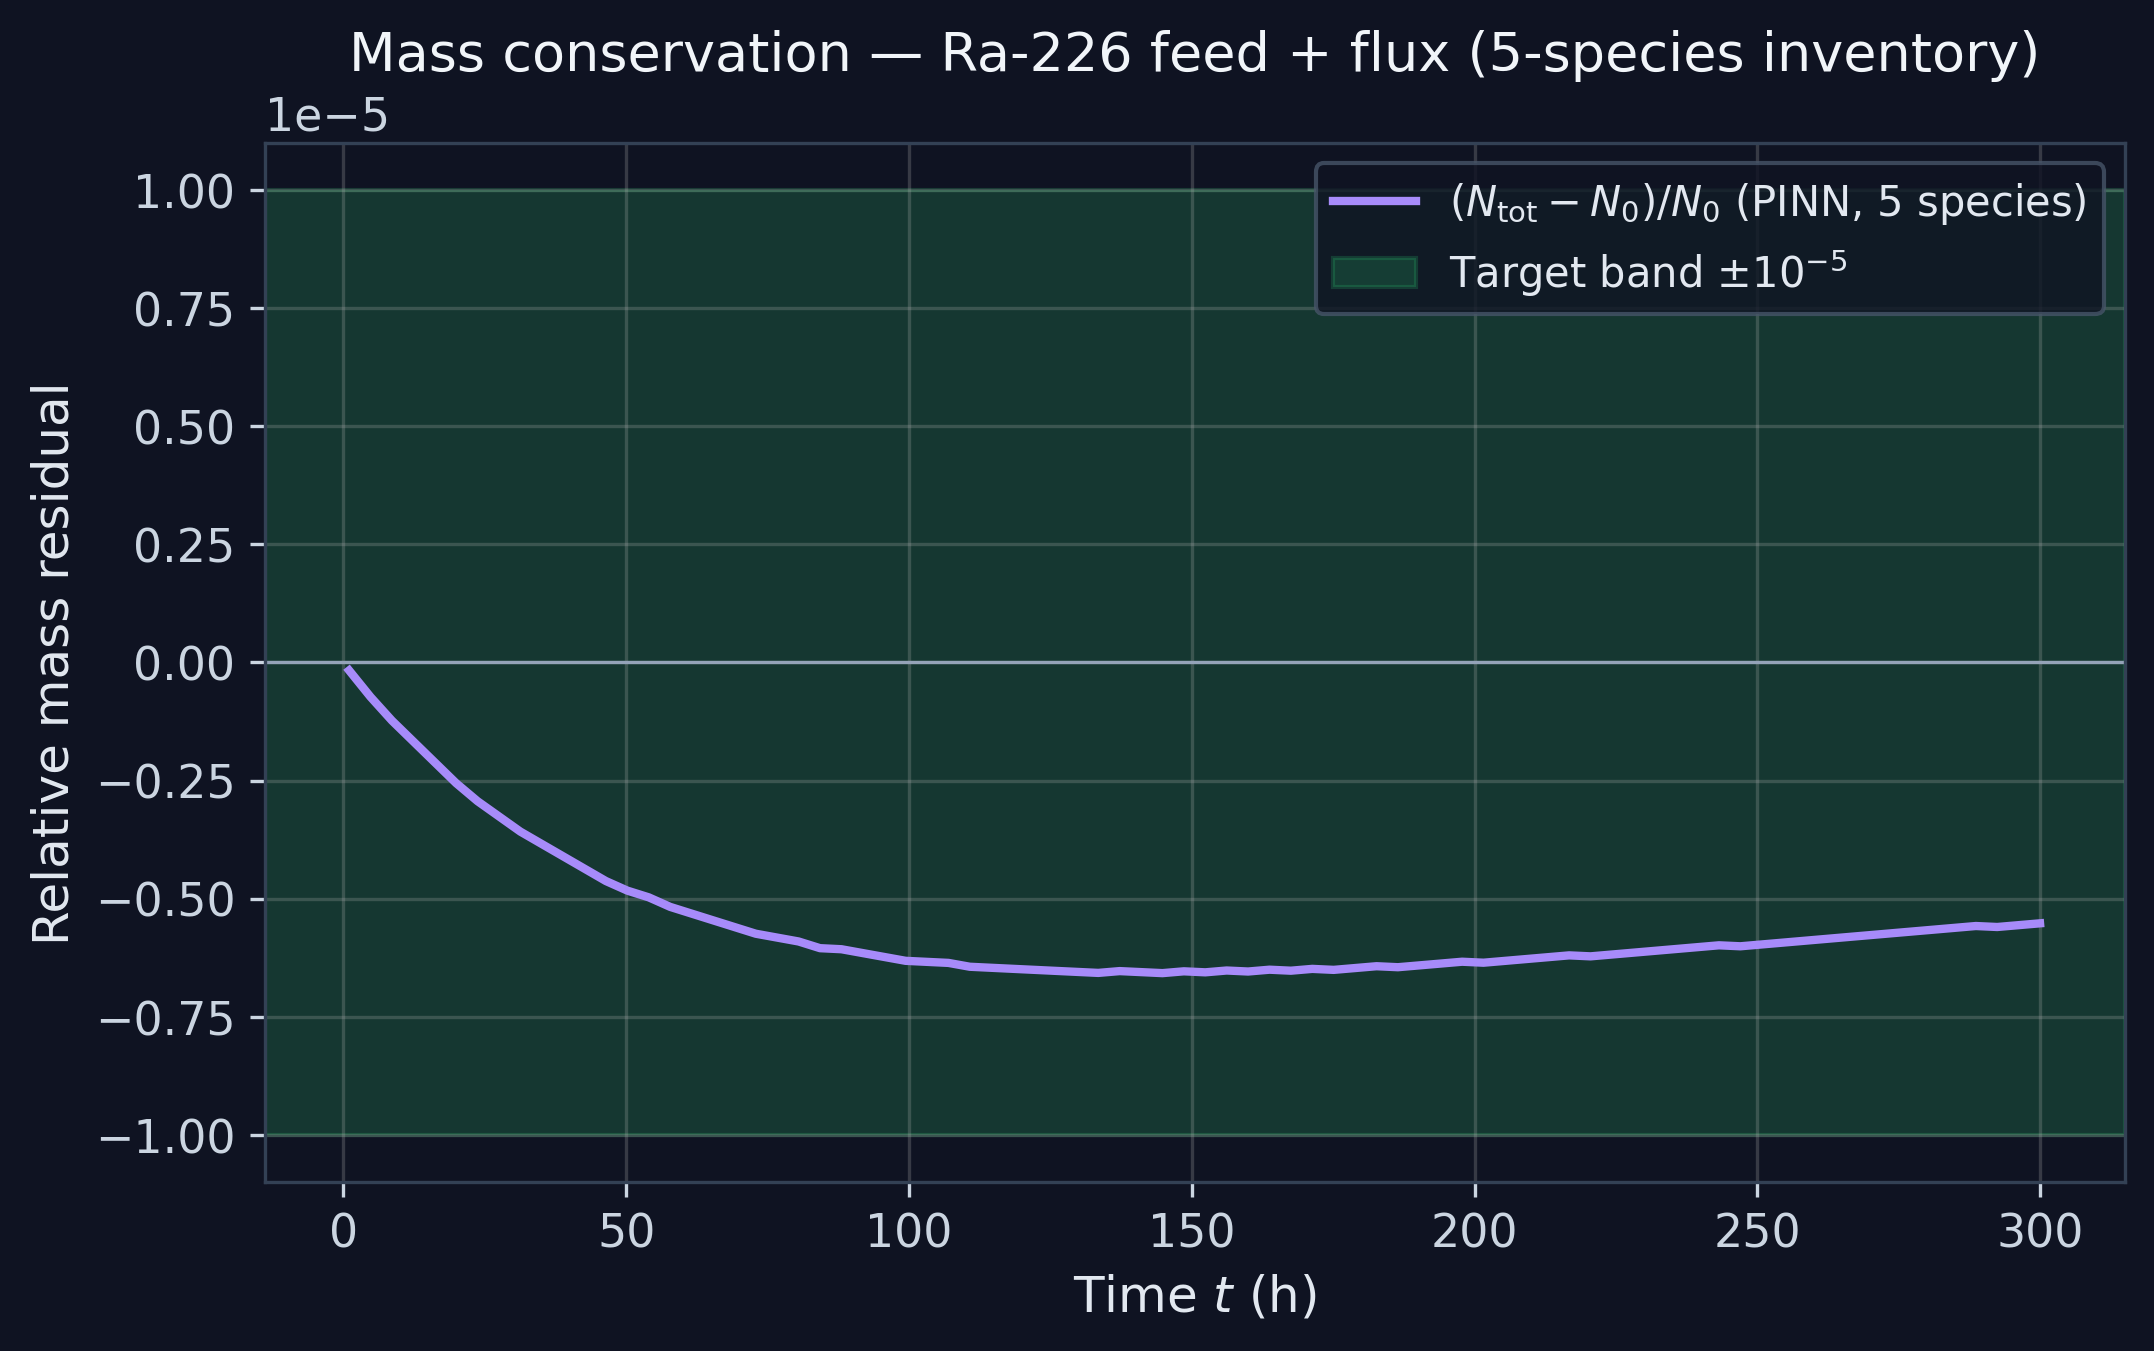
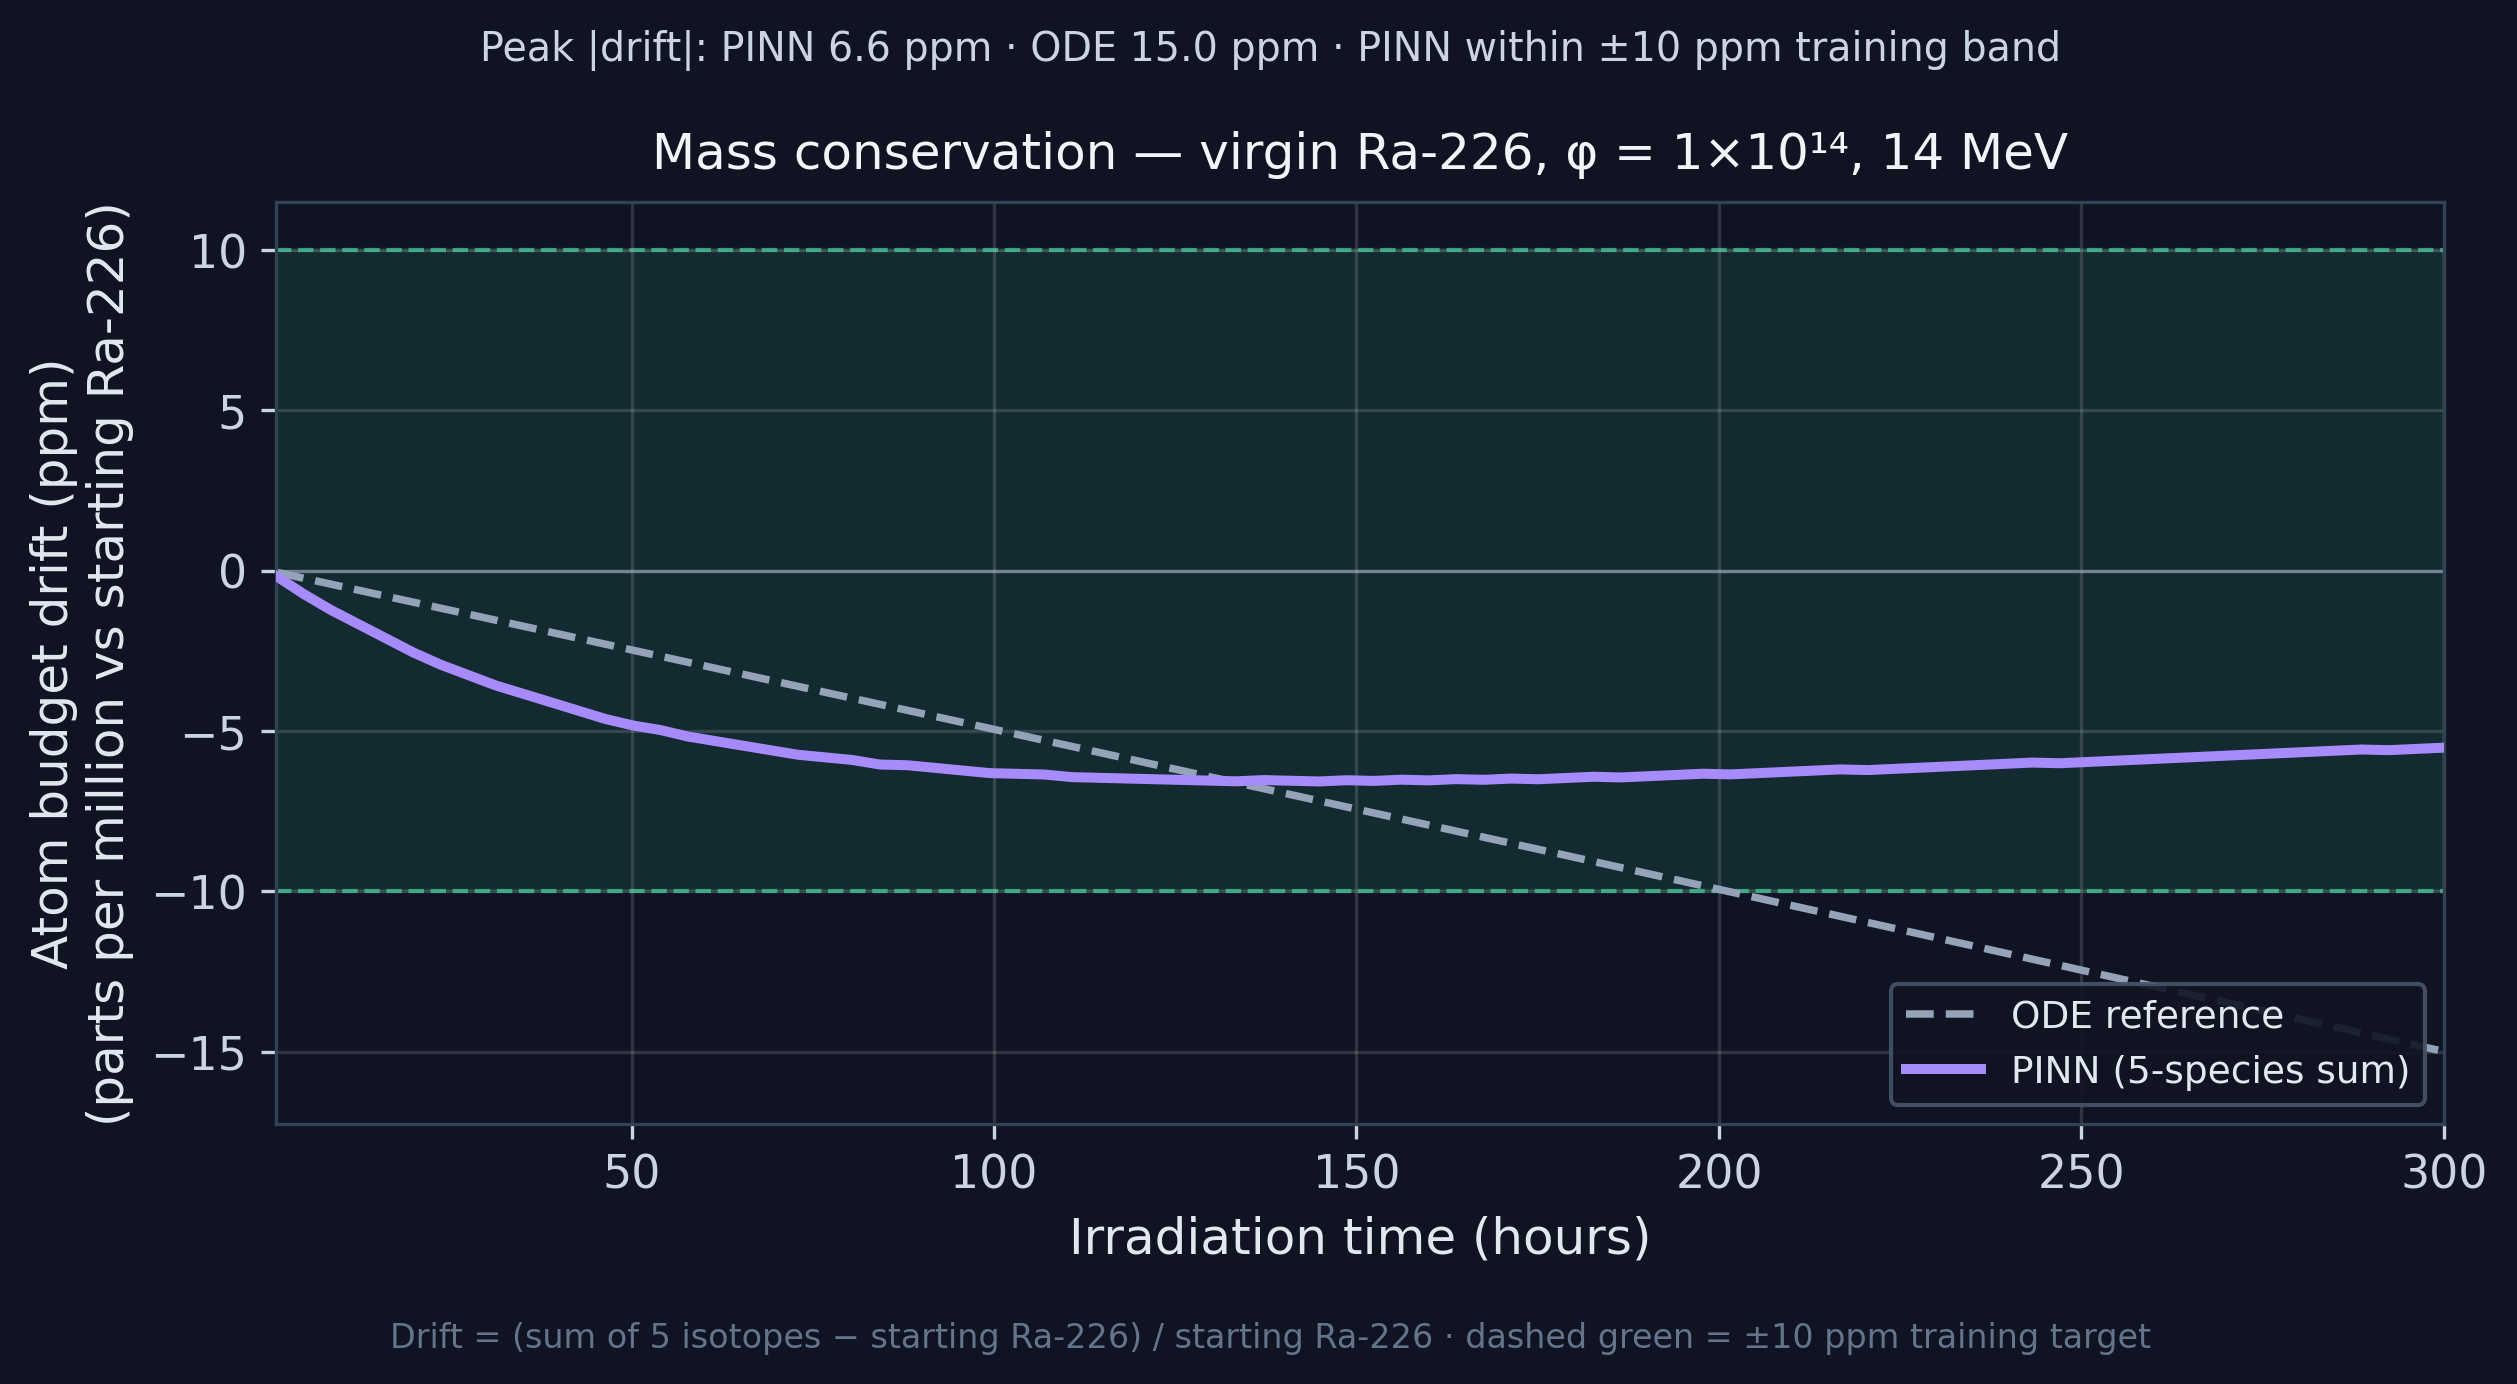
Redesign mass conservation plot for readability (ppm scale, ODE comparison).

diff --git a/scripts/isef_figures.py b/scripts/isef_figures.py
@@ -291,7 +291,7 @@ def plot_loss_trajectory_12k() -> None:
 
 
 def plot_mass_conservation(model) -> None:
-    """Mass budget relative residual vs time for virgin Ra-226 + fast flux."""
+    """Five-species atom budget drift vs time — readable ppm scale for poster/board."""
     phi = 1.0e14
     energy_ev = 14.0e6
     n226_0 = TRAIN_INIT_RA226
@@ -299,25 +299,95 @@ def plot_mass_conservation(model) -> None:
     n0 = n226_0
 
     p226, p225, pac, p227, pac227 = _pinn_trajectory(model, t_hours, phi, energy_ev, n226_0)
-    # Full tracked inventory: Ra-226 -> Ra-225 -> Ac-225 and Ra-226 -> Ra-227 -> Ac-227
-    # both keep atoms inside the 5-species set, so the sum should equal N0 up to the tiny
-    # fraction that decays out of the chain (Ac-225/Ac-227 alpha). A 3-species sum would
-    # falsely show ~1e-4 drift because it drops the Ra-227/Ac-227 branch.
-    total = p226 + p225 + pac + p227 + pac227
-    rel_res = (total - n0) / max(n0, 1.0)
+    pinn_total = p226 + p225 + pac + p227 + pac227
+    pinn_ppm = (pinn_total - n0) / max(n0, 1.0) * 1e6
 
-    fig, ax = plt.subplots(figsize=(8, 4.5))
+    # ODE reference (same IC) — shows expected physics-limited drift from alpha exit.
+    env = IsotopeEnvironment(phi=phi, neutron_energy_ev=energy_ev)
+    t_ode, Y_ode = run_simulation(
+        env,
+        t_end_h=float(t_hours[-1]),
+        n_points=max(200, len(t_hours) * 4),
+        N_ra0=n226_0,
+    )
+    ode_total = np.zeros_like(t_hours)
+    for i in range(5):
+        ode_total += np.interp(t_hours, t_ode, Y_ode[:, i])
+    ode_ppm = (ode_total - n0) / max(n0, 1.0) * 1e6
+
+    target_ppm = 10.0  # ±1e-5 relative
+    pinn_peak = float(np.max(np.abs(pinn_ppm)))
+    ode_peak = float(np.max(np.abs(ode_ppm)))
+    y_lo = min(pinn_ppm.min(), ode_ppm.min(), -target_ppm) * 1.15
+    y_hi = max(pinn_ppm.max(), ode_ppm.max(), target_ppm) * 1.15
+    if y_hi - y_lo < 4.0:
+        mid = 0.5 * (y_hi + y_lo)
+        y_lo, y_hi = mid - 2.5, mid + 2.5
+
+    fig, ax = plt.subplots(figsize=(8.5, 4.8))
+    fig.subplots_adjust(top=0.82, bottom=0.18, left=0.11, right=0.96)
     with plt.rc_context(DARK_RC):
-        ax.plot(t_hours, rel_res, color="#a78bfa", lw=2, label=r"$(N_\mathrm{tot}-N_0)/N_0$ (PINN, 5 species)")
-        ax.axhline(0.0, color="#94a3b8", lw=0.8)
-        ax.axhspan(-1e-5, 1e-5, alpha=0.2, color="#2ecc71", label=r"Target band $\pm10^{-5}$")
-        ax.set_xlabel(r"Time $t$ (h)")
-        ax.set_ylabel("Relative mass residual")
-        ax.set_title("Mass conservation — Ra-226 feed + flux (5-species inventory)")
-        ax.legend(loc="best")
-        ax.grid(True, alpha=0.25)
+        ax.axhspan(-target_ppm, target_ppm, alpha=0.12, color="#34d399", zorder=0)
+        ax.axhline(target_ppm, color="#34d399", ls="--", lw=1.0, alpha=0.7, zorder=1)
+        ax.axhline(-target_ppm, color="#34d399", ls="--", lw=1.0, alpha=0.7, zorder=1)
+        ax.axhline(0.0, color="#64748b", lw=0.8, zorder=1)
+        ax.plot(
+            t_hours,
+            ode_ppm,
+            color="#94a3b8",
+            ls="--",
+            lw=1.8,
+            label="ODE reference",
+            zorder=2,
+        )
+        ax.plot(
+            t_hours,
+            pinn_ppm,
+            color="#a78bfa",
+            lw=2.4,
+            label="PINN (5-species sum)",
+            zorder=3,
+        )
+        ax.set_xlim(t_hours[0], t_hours[-1])
+        ax.set_ylim(y_lo, y_hi)
+        ax.set_xlabel("Irradiation time (hours)")
+        ax.set_ylabel("Atom budget drift (ppm)\n(parts per million vs starting Ra-226)")
+        ax.set_title(
+            "Mass conservation — virgin Ra-226, φ = 1×10¹⁴, 14 MeV",
+            fontsize=12,
+            pad=8,
+        )
+        status = "PINN within ±10 ppm training band" if pinn_peak <= target_ppm else "PINN exceeds training band"
+        fig.text(
+            0.5,
+            0.94,
+            f"Peak |drift|: PINN {pinn_peak:.1f} ppm · ODE {ode_peak:.1f} ppm · {status}",
+            ha="center",
+            va="top",
+            fontsize=9.5,
+            color="#cbd5e1",
+        )
+        fig.text(
+            0.5,
+            0.02,
+            "Drift = (sum of 5 isotopes − starting Ra-226) / starting Ra-226 · dashed green = ±10 ppm training target",
+            ha="center",
+            va="bottom",
+            fontsize=8,
+            color="#64748b",
+        )
+        ax.legend(loc="lower right", framealpha=0.9, fontsize=9)
+        ax.grid(True, alpha=0.22)
         _style_figure(ax)
-    _save(fig, "isef_mass_conservation.png")
+    _save(
+        fig,
+        "isef_mass_conservation.png",
+        {
+            "pinn_peak_ppm": pinn_peak,
+            "ode_peak_ppm": ode_peak,
+            "target_ppm": target_ppm,
+        },
+    )
 
 
 HELDOUT_DETAILS = ROOT / "analysis" / "validation" / "heldout_validation_details.csv"
